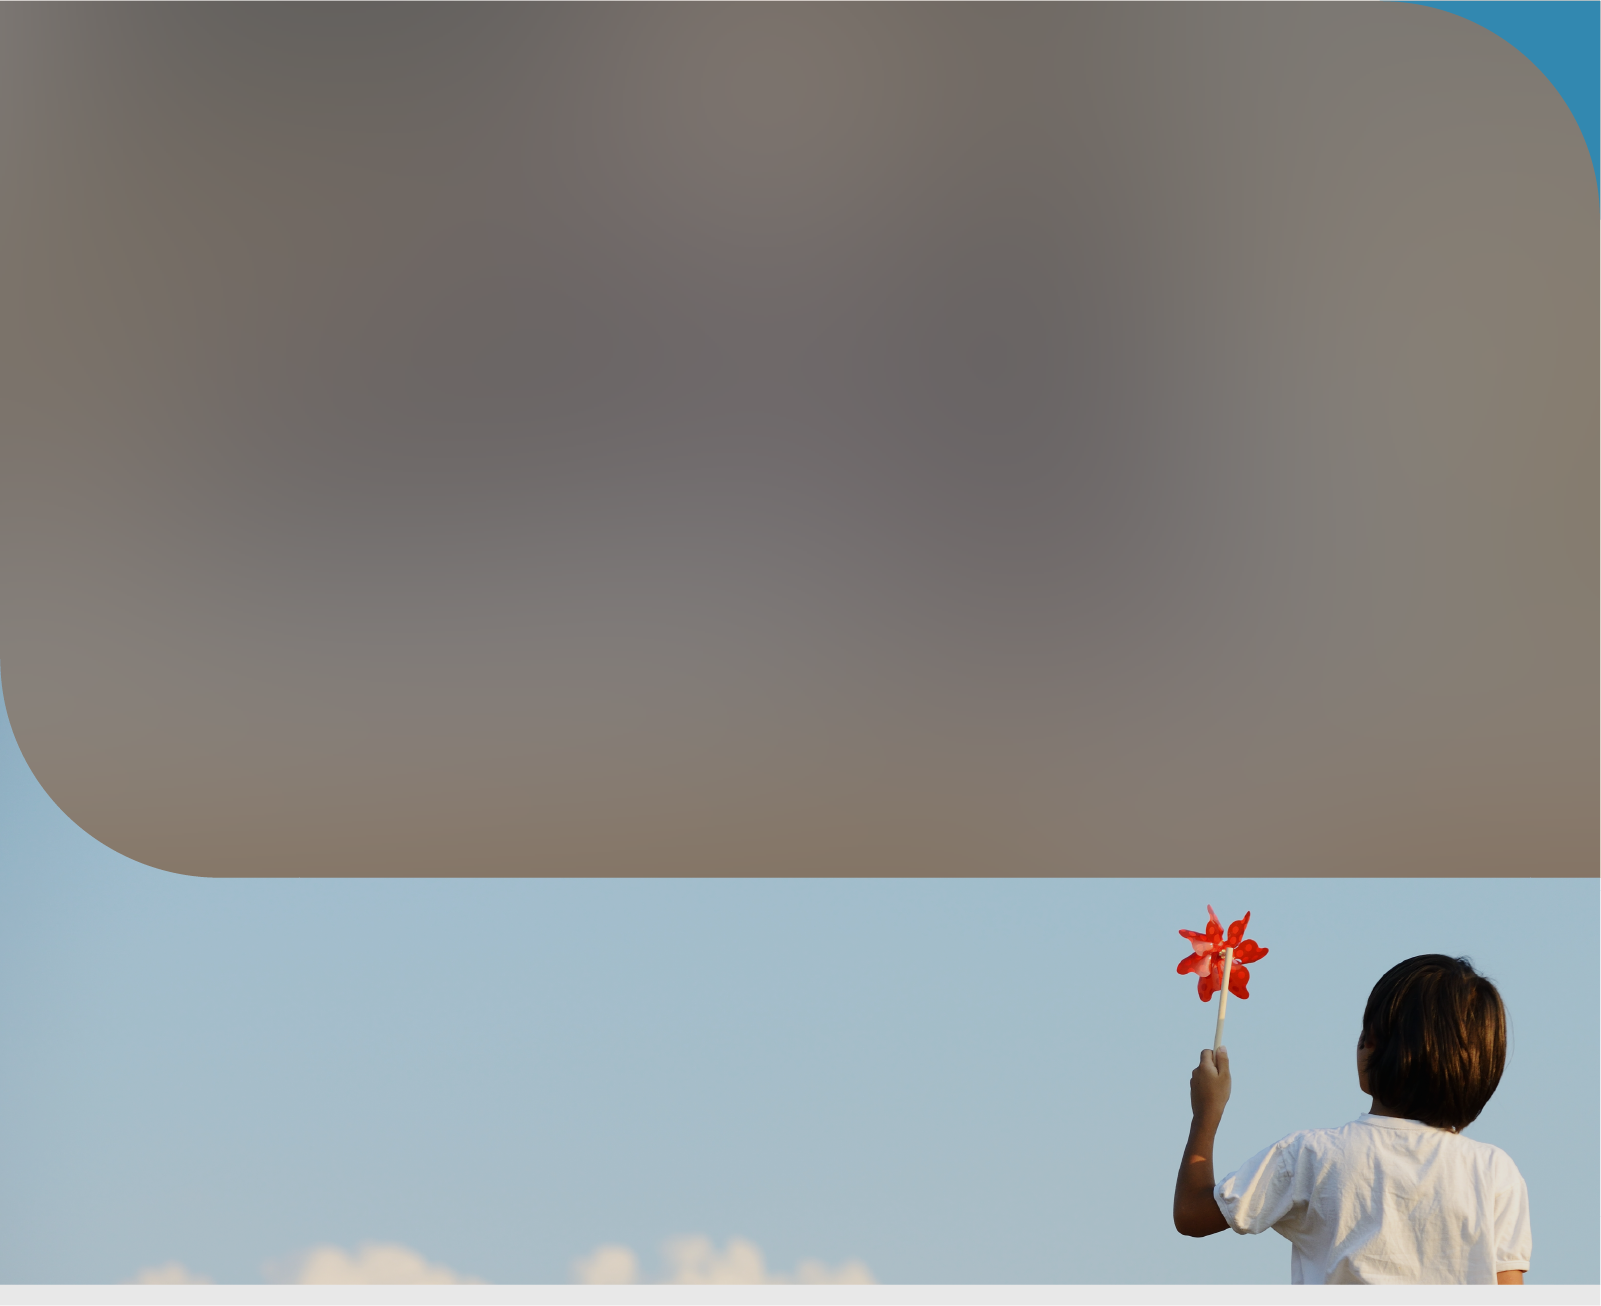
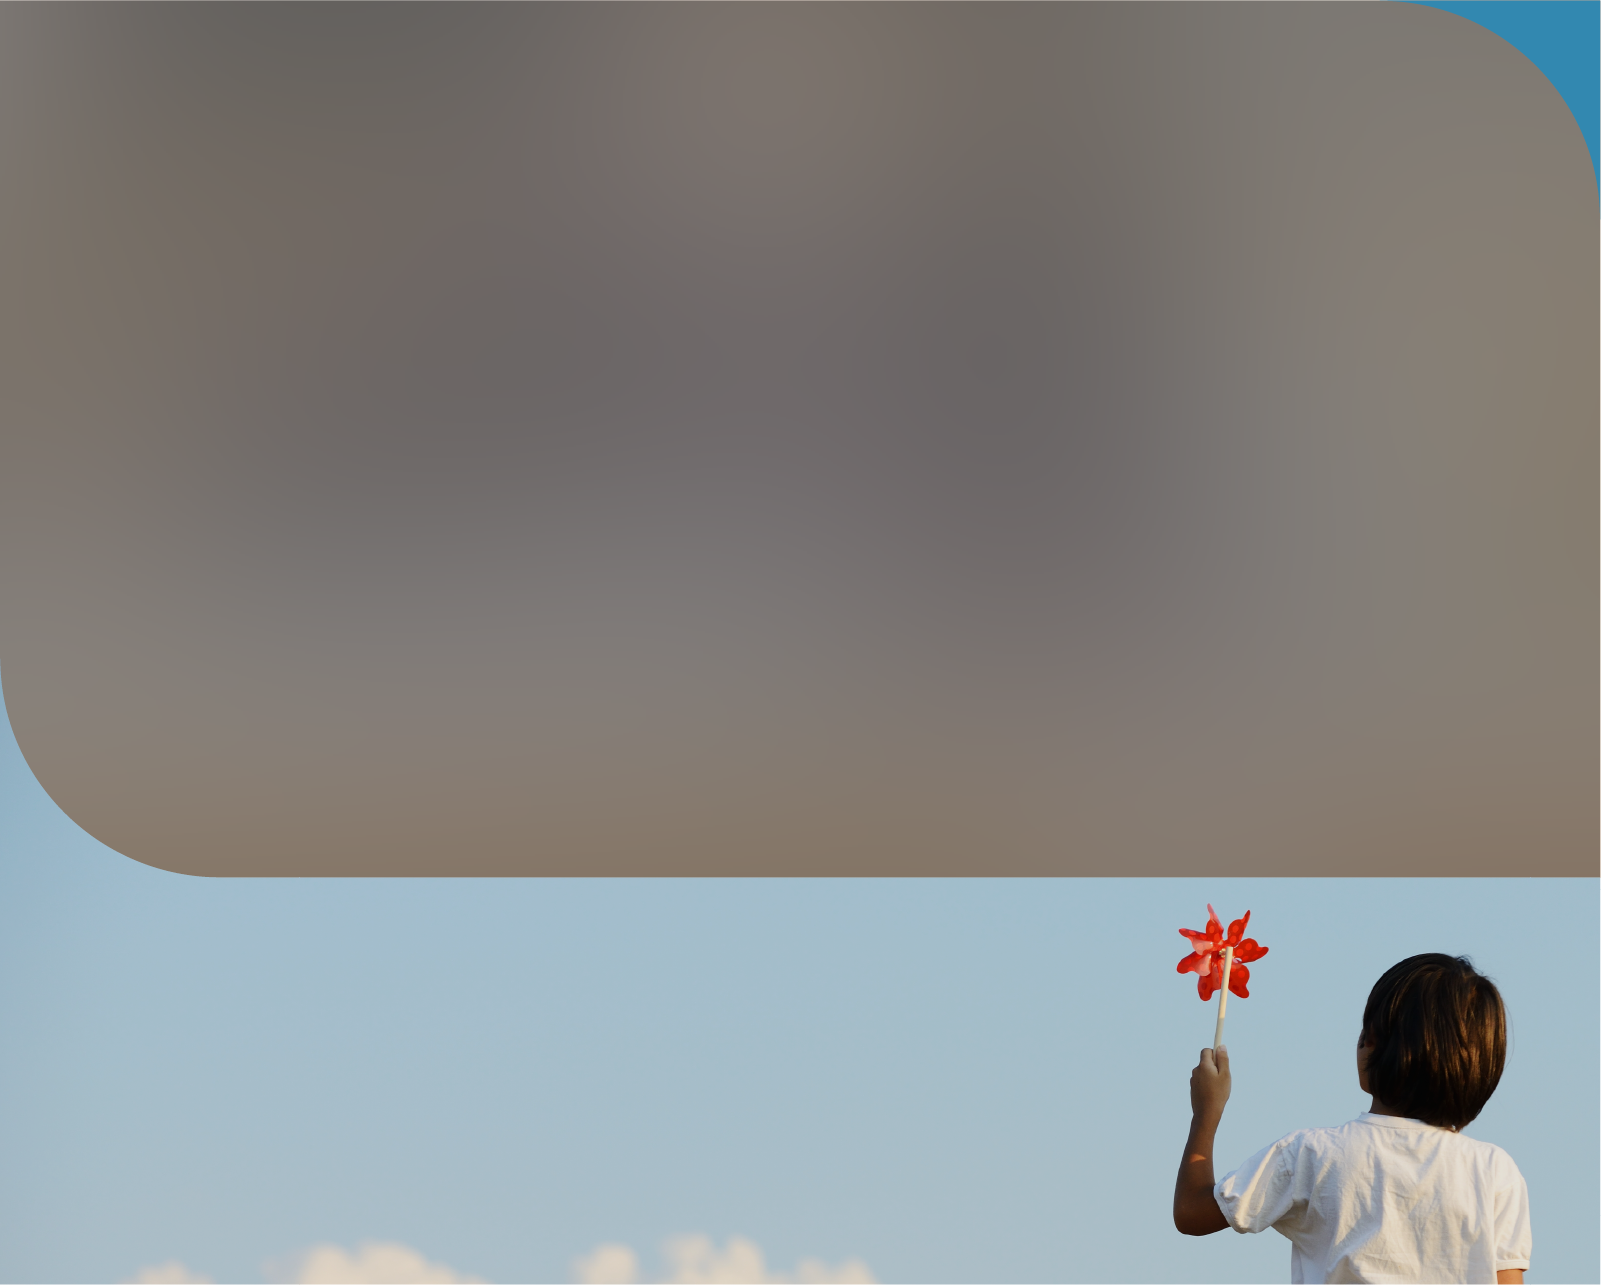
171211_ye

Changed region(s): [[0.0, 0.6537, 1.0, 1.0], [0.0, 0.5603, 0.0312, 0.6226], [0.0312, 0.6226, 0.0625, 0.6537]]

diff --git a/css/j_style.css b/css/j_style.css
@@ -1108,6 +1108,18 @@ body{
 /*Prep END*/
 /*---------------------------------------------------------------*/
 
+/* box_empty start */
+
+.box_empty{
+    width: 100%;
+    height: 15px;
+    background-color: #e8e8e8;
+}
+
+/* box_empty END */
+
+/*---------------------------------------------------------------*/
+
 /*consult start*/
 .box6{
     width: 100%;

diff --git a/j_index.html b/j_index.html
@@ -636,7 +636,9 @@
             </div>
         </div> <!--prep all wrap end-->
     </div> <!-- box8 END -->
-
+<!--///////////////////////////////////////////////////////////-->
+    <div class="box_empty"></div>
+    
 <!--///////////////////////////////////////////////////////////-->
     
     <div class="box6">
